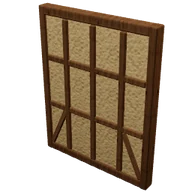
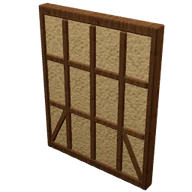
Avance: el canto del relleno metido en jambas y pies (sin pelear con ellos) y medio poste en cada esquina; registro v223 al día; imágenes v5 rehechas
Claude-Session: https://claude.ai/code/session_011Xgxtn3fBaakBVDAStPbHK

Changed region(s): [[0.2188, 0.0625, 0.3438, 0.75], [0.7188, 0.1875, 0.8125, 0.6875], [0.6562, 0.7188, 0.75, 0.9375]]

diff --git a/src/demo/registro.js b/src/demo/registro.js
@@ -1,7 +1,7 @@
 // Decisiones tomadas en la demo única, para revisar.
 export const VERSION_DEMO = "Demo única · v223 (El muro de entramado)";
 export const REGISTRO_DEMO = [
-  "v223: el muro de entramado ya no se esconde (P11c, «La casa más fuerte»), y con él su puerta y su ventana. En construir, pestaña Muro, salen con su imagen: el liso cuesta 2 troncos delgados, 2 varas y 3 barros; el de puerta, 2 troncos, 1 vara y 2 barros; el de ventana, 2 troncos, 2 varas y 2 barros (los troncos delgados y las varas, del árbol joven; el barro, de la ribera). Como las casas de entramado de la referencia: la madera oscura a la vista (durmiente, carrera, postes de esquina, pie derecho, riostras y tornapuntas en V) y los paños pequeños rellenos de barro claro. La puerta lleva jambas y dintel, y en su hueco encaja la puerta de varas; la ventana, pies, peana, dintel y alféizar. Bajo el tejado se cierra con el mismo barro claro.",
+  "v223: el muro de entramado ya no se esconde (P11c, «La casa más fuerte»), y con él su puerta y su ventana. En construir, pestaña Muro, salen con su imagen: el liso cuesta 2 troncos delgados, 2 varas y 3 barros; el de puerta, 2 troncos, 1 vara y 2 barros; el de ventana, 2 troncos, 2 varas y 2 barros (los troncos delgados y las varas, del árbol joven; el barro, de la ribera). Como las casas de entramado de la referencia: la madera oscura a la vista (durmiente, carrera, postes de esquina, pies cada medio metro, dos riostras y tornapuntas en los paños bajos) y los paños pequeños rellenos de barro claro. La puerta lleva jambas y dintel, y en su hueco encaja la puerta de varas; la ventana, pies, peana, dintel y alféizar. Bajo el tejado se cierra con el mismo barro claro.",
   "v223, provisional: el coste, el peso y lo que aguantan los de puerta y ventana (en la proporción de los de troncos), y el relleno de barro sin encalar (aún no hay cal).",
   "v222: el portón de empalizada, sin hierro (P11c, «La casa más fuerte»). En construir, pestaña Exterior, sale con su imagen y cuesta 4 troncos delgados (del árbol joven) y 2 cuerdas (del banco de tronco). Dos postes clavados medio metro y afilados, como los de la empalizada; la hoja, siete rollizos de punta afilada con dos traviesas y una tornapunta por detrás, todo atado con cuerda. Los goznes son de madera y cuerda: el rollizo de la bisagra gira sobre una piedra de quicio, y dos gazas de cuerda gruesa lo abrazan al poste, con un taco de madera encima de cada una. Se abre y se cierra con Usar, y solo lo abren el dueño de la tierra y sus invitados (como las demás puertas).",
   "v222, provisional: el coste (4 troncos delgados y 2 cuerdas) y los goznes de cuerda; el portón de herrajes llegará con el hierro (P10).",

diff --git a/src/mundo/modelos.js b/src/mundo/modelos.js
@@ -201,10 +201,10 @@ function muroEntramado(opc = {}) {
   // el relleno de una pieza, con el hueco recortado (como el barro del zarzo)
   const f = new THREE.Shape(), B = 0.012, m = 0.04;
   f.moveTo(-S + m, m);
-  if (opc.puerta) { const a = P.anchoPuerta / 2 + B, t = P.altoPuerta + B; f.lineTo(-a, m); f.lineTo(-a, t); f.lineTo(a, t); f.lineTo(a, m); }   // (+B: el bisel no asoma al hueco)
+  if (opc.puerta) { const a = P.anchoPuerta / 2 + 2 * B, t = P.altoPuerta + 2 * B; f.lineTo(-a, m); f.lineTo(-a, t); f.lineTo(a, t); f.lineTo(a, m); }   // (+2B: el bisel crece B; así el canto del relleno queda metido en la jamba, sin asomar ni pelear con ella)
   f.lineTo(S - m, m); f.lineTo(S - m, H - m); f.lineTo(-S + m, H - m); f.closePath();
   if (opc.ventana) {
-    const a = P.anchoVentana / 2 + B, b = P.bajoVentana - B, t = P.altoVentana + B, h = new THREE.Path();
+    const a = P.anchoVentana / 2 + 2 * B, b = P.bajoVentana - 2 * B, t = P.altoVentana + 2 * B, h = new THREE.Path();
     h.moveTo(-a, b); h.lineTo(-a, t); h.lineTo(a, t); h.lineTo(a, b); h.closePath();
     f.holes.push(h);
   }
@@ -214,8 +214,8 @@ function muroEntramado(opc = {}) {
 
   // madera fina (como en la referencia): postes de 12 cm, durmiente y carrera de 14, riostras de 10; dos riostras (a 0,9 y
   // 1,7 m) y pies cada medio metro, así que los paños quedan pequeños (unos 0,4 × 0,7 m)
-  const yD = 0.14, yC = H - 0.14, ip = S - 0.12, R = [0.9, 1.7];
-  for (const s of [-1, 1]) vigaV(s * (S - 0.06), 0, H, 0.12);   // postes de esquina
+  const yD = 0.14, yC = H - 0.14, ip = S - 0.09, R = [0.9, 1.7];
+  for (const s of [-1, 1]) vigaV(s * (S - 0.045), 0, H, 0.09);   // postes de esquina (medio poste: con el muro de al lado, uno de 18 cm)
   vigaH(-S, S, H - 0.07, 0.14);                                   // carrera
   const riostras = (x0, x1) => { for (const y of R) vigaH(x0, x1, y, 0.1); };
   if (opc.puerta) {
